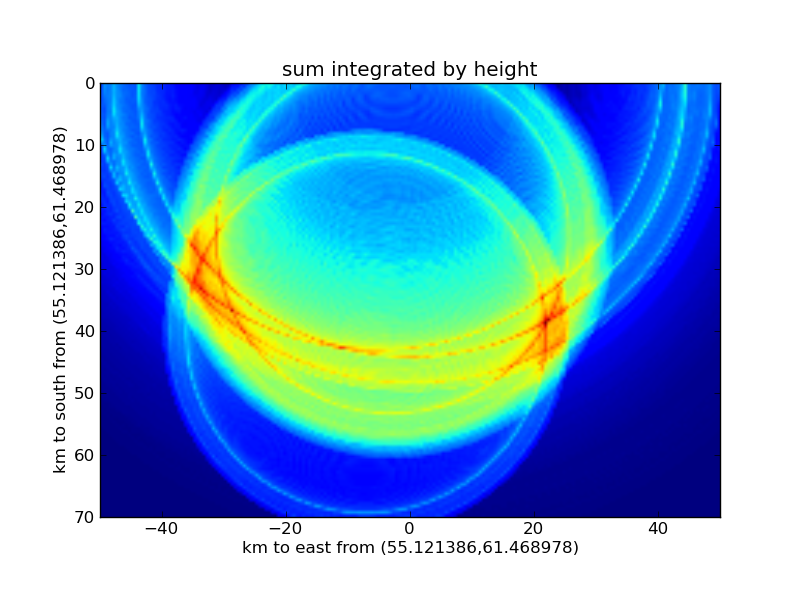
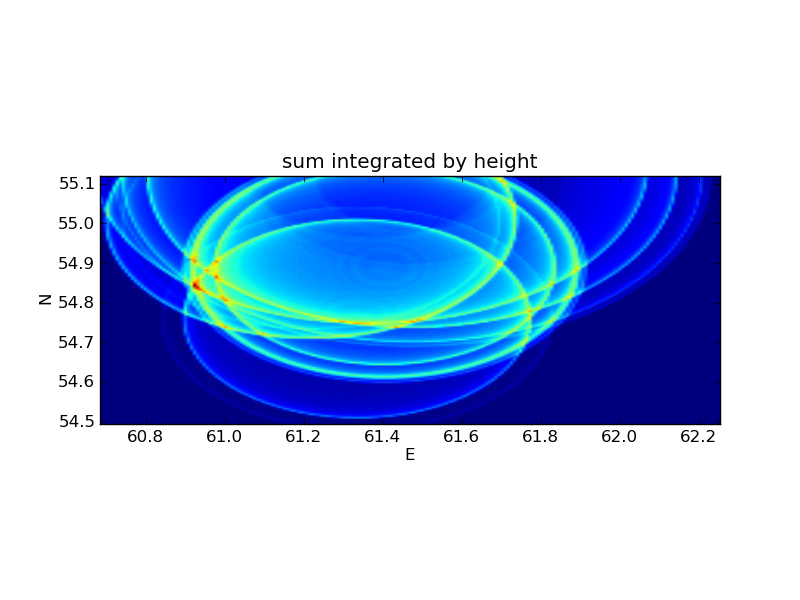
-bug in prod

diff --git a/agrid_timestep.py b/agrid_timestep.py
@@ -1,0 +1,191 @@
+# !/usr/bin/env python
+# -*- coding: utf-8 -*-
+import sys
+import math
+import logging
+import numpy as np
+import matplotlib.pyplot as plt
+
+logging.basicConfig(level=logging.DEBUG)
+logger = logging.getLogger('agrid')
+
+jobs = [
+    {'infn': u'Коркино. Метеорит(360p_H.264-AAC).txt',
+    'lat': 54.8907,
+    'lon': 61.3997
+    },
+    {'infn': u'МЕТЕОРИТ 15 02 2013г(360p_H.264-AAC).txt',
+    'lat': 54.76,
+    'lon': 61.33
+    },
+    {'infn': u'ВЗРЫВ ЧЕЛЯБИНСК(360p_H.264-AAC)-cut.txt',
+    'lat': 55.149944,
+    'lon': 61.363964
+    },
+    {'infn': u'Армагеддон в Челябинске! (съемка камеры наблюдения)(360p_H.264-AAC).txt',
+    'lat': 55.121386,
+    'lon': 61.468978
+    },
+    {'infn': u'метеорит над челябинском(360p_H.264-AAC).txt',
+    'lat': 55.0081,
+    'lon': 61.2131
+    },
+
+]
+
+deglat = 111.11
+deglon = 111.11 * math.cos(55 / 180.0 * math.pi)
+
+logger.info('Degree of lon %f', deglon)
+
+zero_ll = dict(lat=55.121386, lon=61.468978)
+
+km_step = 0.5
+
+lat_km_grid, lon_km_grid, h_grid = np.mgrid[0:70:km_step,
+            -50:50:km_step, 0:40:km_step]
+
+logger.info('Grid size %d MB', lat_km_grid.size / 2 ** 20)
+
+timecorr_step = 0.1
+timecorr_grid = np.arange(-2, 2, timecorr_step)
+
+snd_sum = np.zeros((lat_km_grid.shape[0], lat_km_grid.shape[1],
+    lat_km_grid.shape[2], timecorr_grid.shape[0]))
+
+snd_prod = np.ones((lat_km_grid.shape[0], lat_km_grid.shape[1],
+    lat_km_grid.shape[2], timecorr_grid.shape[0]))
+
+sigma = 4
+n = int(4 * sigma) | 1
+x = np.arange(n) - (n - 1) / 2.0
+gauss_smooth = np.exp(-x ** 2 / sigma ** 2)
+
+for job in jobs:
+    logger.info('File %s', job['infn'])
+    data = np.loadtxt(job['infn'])
+    time = data[:, 0]
+    bri = data[:, 1]
+    snd = data[:, 2]
+    snd /= np.max(snd)
+    snd[snd < 0.7] = 0
+    snd = np.convolve(snd, gauss_smooth, 'same')
+
+    idx0 = np.argmax(bri)
+    time0 = time[idx0]
+    logger.info('Time0 %f', time0)
+    time = time - time0
+
+    dist_lat_grid = -(job['lat'] - zero_ll['lat']) * deglat - lat_km_grid
+    dist_lon_grid = (job['lon'] - zero_ll['lon']) * deglon - lon_km_grid
+    dist_h_grid = h_grid
+
+    dist_grid = np.sqrt(dist_lat_grid ** 2 + dist_lon_grid ** 2 + dist_h_grid ** 2)
+    time_grid = dist_grid / 0.313
+
+    for icorr, time_corr in enumerate(timecorr_grid):
+        rev_snd = np.interp(time_grid, time + time_corr, snd, 0, 0)
+
+        snd_sum[:, :, :, icorr] += rev_snd
+        snd_prod[:, :, :, icorr] *= rev_snd
+
+logger.debug(np.min(snd_sum))
+logger.debug(np.max(snd_sum))
+logger.debug(np.min(snd_prod))
+logger.debug(np.max(snd_prod))
+logger.debug(snd_prod.shape)
+
+lonlat_extent = [-50 / deglon + 61.468978,
+                50 / deglon + 61.468978,
+                -70 / deglat + 55.121386,
+                55.121386]
+
+heightlat_extent = [0,
+                40,
+                70 / deglat + 61.468978,
+                61.468978]
+
+heightlon_extent = [0,
+                40,
+                -50 / deglon + 55.121386,
+                50 / deglon + 55.121386]
+
+
+time_integr = np.sum(np.sum(np.sum(snd_prod, axis=0), axis=0), axis=0)
+# все индексы схлопнулись по очереди остался тот который был 4
+logger.debug(timecorr_grid)
+logger.debug(time_integr)
+
+best_idx = np.argmax(time_integr)
+
+plt.figure()
+plt.plot(timecorr_grid, time_integr)
+
+plt.figure()
+plt.imshow(np.sum(snd_sum[:, :, :, best_idx], axis=2), extent=lonlat_extent)
+plt.xlabel('E')
+plt.ylabel('N')
+plt.title('sum integrated by height')
+plt.savefig('sum_integrated_by_height.png')
+plt.figure()
+plt.imshow(np.sum(snd_sum[:, :, :, best_idx], axis=1), extent=[0, 40, 70, 0])
+plt.xlabel('height, km')
+plt.ylabel('km to south from (55.121386,61.468978)')
+plt.title('sum integrated by longitude')
+plt.savefig('sum_integrated_by_longitude.png')
+plt.figure()
+plt.imshow(np.sum(snd_sum[:, :, :, best_idx], axis=0), extent=[0, 40, -50, 50])
+plt.xlabel('height, km')
+plt.ylabel('km to east from (55.121386,61.468978)')
+plt.title('sum integrated by latitude')
+plt.savefig('sum_integrated_by_latitude.png')
+
+int_prod = np.sum(snd_prod, axis=3)
+
+plt.figure()
+plt.imshow(np.sum(int_prod, axis=2), 
+    cmap=plt.gray(), extent=lonlat_extent)
+plt.xlabel('E')
+plt.ylabel('N')
+plt.title('prod integrated by height')
+plt.savefig('prod_integrated_by_height.png')
+plt.figure()
+plt.imshow(np.sum(int_prod, axis=1), 
+    cmap=plt.gray(), extent=[0, 40, 70, 0])
+plt.xlabel('height, km')
+plt.ylabel('km to south from (55.121386,61.468978)')
+plt.title('prod integrated by longitude')
+plt.savefig('prod_integrated_by_longitude.png')
+plt.figure()
+plt.imshow(np.sum(int_prod, axis=0), 
+    cmap=plt.gray(), extent=[0, 40, -50, 50])
+plt.xlabel('height, km')
+plt.ylabel('km to east from (55.121386,61.468978)')
+plt.title('prod integrated by latitude')
+plt.savefig('prod_integrated_by_latitude.png')
+
+# plt.figure()
+# plt.imshow(np.sum(snd_prod[:, :, :, best_idx], axis=2), 
+#     cmap=plt.gray(), extent=lonlat_extent)
+# plt.xlabel('E')
+# plt.ylabel('N')
+# plt.title('prod integrated by height')
+# plt.savefig('prod_integrated_by_height.png')
+# plt.figure()
+# plt.imshow(np.sum(snd_prod[:, :, :, best_idx], axis=1), 
+#     cmap=plt.gray(), extent=[0, 40, 70, 0])
+# plt.xlabel('height, km')
+# plt.ylabel('km to south from (55.121386,61.468978)')
+# plt.title('prod integrated by longitude')
+# plt.savefig('prod_integrated_by_longitude.png')
+# plt.figure()
+# plt.imshow(np.sum(snd_prod[:, :, :, best_idx], axis=0), 
+#     cmap=plt.gray(), extent=[0, 40, -50, 50])
+# plt.xlabel('height, km')
+# plt.ylabel('km to east from (55.121386,61.468978)')
+# plt.title('prod integrated by latitude')
+# plt.savefig('prod_integrated_by_latitude.png')
+
+#plt.imshow(rev_snd)
+plt.show()
+

diff --git a/README.md b/README.md
@@ -17,8 +17,8 @@ http://www.youtube.com/watch?v=2Gc1HgO5hNY
 Коркино. Метеорит(360p_H.264-AAC).mp4
 http://www.youtube.com/watch?v=odKjwrjIM-k
 Коркино
-54.90
-61.41
+54.8907
+61.3997
 
 Метеорит в Каменске-Уральском 15.02.2013(360p_H.264-AAC).mp4
 http://www.youtube.com/watch?v=gnDtS0zyLBA
@@ -30,7 +30,6 @@ http://www.youtube.com/watch?v=7c-0iwBEswE
 
 Метеорит,Челябинск(360p_H.264-AAC).mp4
 http://www.youtube.com/watch?v=hD2iySyG090
-090
 
 метеорит над челябинском(360p_H.264-AAC).mp4
 http://www.youtube.com/watch?v=mpKBXsowQfE
